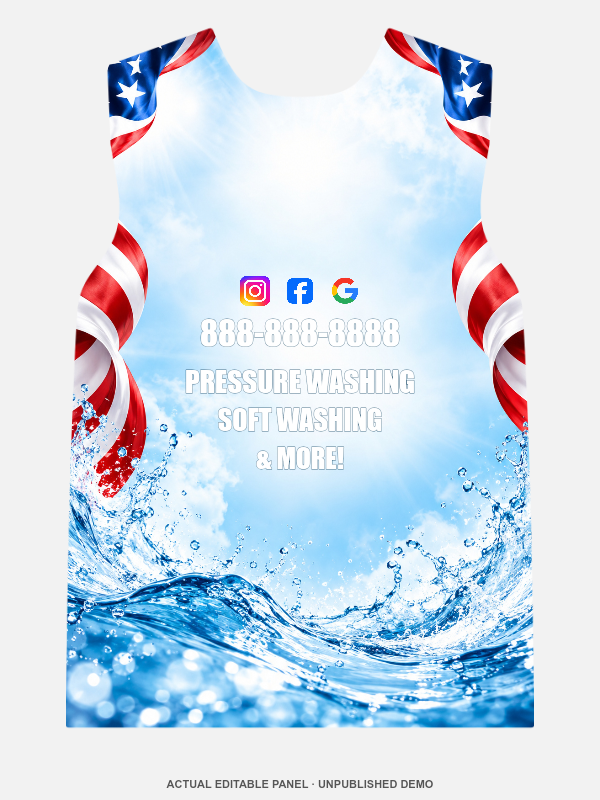
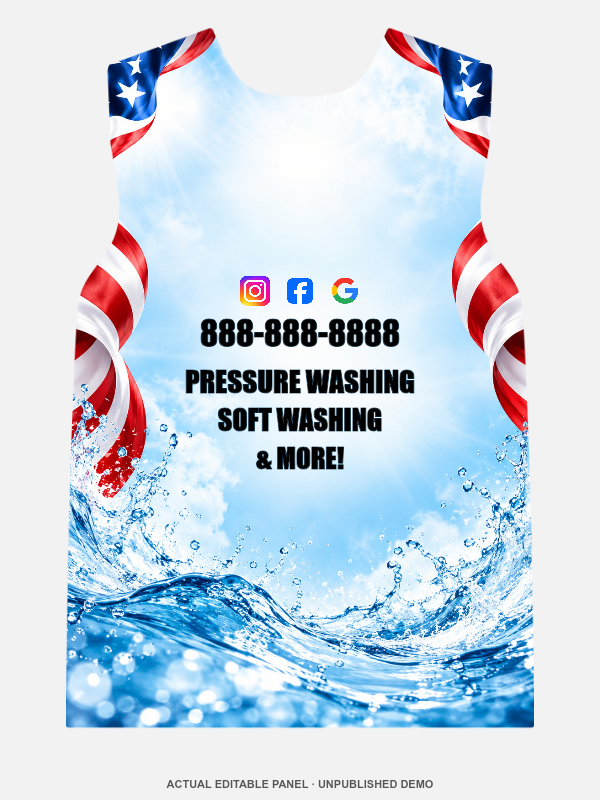
Apply approved black contact text and accept unmirrored patriotic layouts

Changed region(s): [[0.3, 0.375, 0.69, 0.5938]]

diff --git a/v20/template-demo.js b/v20/template-demo.js
@@ -1963,7 +1963,7 @@ export const demoVersions=[
       "Pressure Washing"
     ],
     "range": "Premium · All-over print",
-    "draftStatus": "Approved background; finished shirt remains a draft. Contact-text contrast needs review on this light background.",
+    "draftStatus": "Approved background with black contact text; unpublished draft.",
     "backgroundSource": "01-pressure-washing-ice-blue.jpg",
     "payload": {
       "schema": "mqd-design-v1",
@@ -2124,7 +2124,7 @@ export const demoVersions=[
                 "scale": 0.72,
                 "rotation": 0,
                 "visible": true,
-                "color": "#FFFFFF",
+                "color": "#000000",
                 "font": "Impact",
                 "strokeColor": "#083a59",
                 "strokeWidth": 2,
@@ -2142,7 +2142,7 @@ export const demoVersions=[
                 "scale": 0.62,
                 "rotation": 0,
                 "visible": true,
-                "color": "#FFFFFF",
+                "color": "#000000",
                 "font": "Impact",
                 "strokeColor": "#083a59",
                 "strokeWidth": 2,
@@ -2160,7 +2160,7 @@ export const demoVersions=[
                 "scale": 0.6,
                 "rotation": 0,
                 "visible": true,
-                "color": "#FFFFFF",
+                "color": "#000000",
                 "font": "Impact",
                 "strokeColor": "#083a59",
                 "strokeWidth": 2,
@@ -2178,7 +2178,7 @@ export const demoVersions=[
                 "scale": 0.58,
                 "rotation": 0,
                 "visible": true,
-                "color": "#FFFFFF",
+                "color": "#000000",
                 "font": "Impact",
                 "strokeColor": "#083a59",
                 "strokeWidth": 2,
@@ -2745,7 +2745,7 @@ export const demoVersions=[
       "Pressure Washing"
     ],
     "range": "Premium · All-over print",
-    "draftStatus": "Flag artwork kept unmirrored; seam/print approval pending. Unpublished draft. Contact-text contrast needs review on this light background.",
+    "draftStatus": "Patriotic layout approved without mirroring or seam matching; unpublished draft.",
     "backgroundSource": "04-pressure-washing-american-classic.jpg",
     "payload": {
       "schema": "mqd-design-v1",
@@ -2906,7 +2906,7 @@ export const demoVersions=[
                 "scale": 0.72,
                 "rotation": 0,
                 "visible": true,
-                "color": "#FFFFFF",
+                "color": "#000000",
                 "font": "Impact",
                 "strokeColor": "#083a59",
                 "strokeWidth": 2,
@@ -2924,7 +2924,7 @@ export const demoVersions=[
                 "scale": 0.62,
                 "rotation": 0,
                 "visible": true,
-                "color": "#FFFFFF",
+                "color": "#000000",
                 "font": "Impact",
                 "strokeColor": "#083a59",
                 "strokeWidth": 2,
@@ -2942,7 +2942,7 @@ export const demoVersions=[
                 "scale": 0.6,
                 "rotation": 0,
                 "visible": true,
-                "color": "#FFFFFF",
+                "color": "#000000",
                 "font": "Impact",
                 "strokeColor": "#083a59",
                 "strokeWidth": 2,
@@ -2960,7 +2960,7 @@ export const demoVersions=[
                 "scale": 0.58,
                 "rotation": 0,
                 "visible": true,
-                "color": "#FFFFFF",
+                "color": "#000000",
                 "font": "Impact",
                 "strokeColor": "#083a59",
                 "strokeWidth": 2,
@@ -3136,7 +3136,7 @@ export const demoVersions=[
       "Pressure Washing"
     ],
     "range": "Premium · All-over print",
-    "draftStatus": "Flag artwork kept unmirrored; seam/print approval pending. Unpublished draft.",
+    "draftStatus": "Patriotic layout approved without mirroring or seam matching; unpublished draft.",
     "backgroundSource": "05-pressure-washing-american-dark.jpg",
     "payload": {
       "schema": "mqd-design-v1",
@@ -3527,7 +3527,7 @@ export const demoVersions=[
       "Pressure Washing"
     ],
     "range": "Premium · All-over print",
-    "draftStatus": "Flag artwork kept unmirrored; seam/print approval pending. Unpublished draft. Contact-text contrast needs review on this light background.",
+    "draftStatus": "Patriotic layout approved without mirroring or seam matching; unpublished draft.",
     "backgroundSource": "06-pressure-washing-american-bright.jpg",
     "payload": {
       "schema": "mqd-design-v1",
@@ -3688,7 +3688,7 @@ export const demoVersions=[
                 "scale": 0.72,
                 "rotation": 0,
                 "visible": true,
-                "color": "#FFFFFF",
+                "color": "#000000",
                 "font": "Impact",
                 "strokeColor": "#083a59",
                 "strokeWidth": 2,
@@ -3706,7 +3706,7 @@ export const demoVersions=[
                 "scale": 0.62,
                 "rotation": 0,
                 "visible": true,
-                "color": "#FFFFFF",
+                "color": "#000000",
                 "font": "Impact",
                 "strokeColor": "#083a59",
                 "strokeWidth": 2,
@@ -3724,7 +3724,7 @@ export const demoVersions=[
                 "scale": 0.6,
                 "rotation": 0,
                 "visible": true,
-                "color": "#FFFFFF",
+                "color": "#000000",
                 "font": "Impact",
                 "strokeColor": "#083a59",
                 "strokeWidth": 2,
@@ -3742,7 +3742,7 @@ export const demoVersions=[
                 "scale": 0.58,
                 "rotation": 0,
                 "visible": true,
-                "color": "#FFFFFF",
+                "color": "#000000",
                 "font": "Impact",
                 "strokeColor": "#083a59",
                 "strokeWidth": 2,
@@ -5482,7 +5482,7 @@ export const demoVersions=[
       "General Business"
     ],
     "range": "Premium · All-over print",
-    "draftStatus": "Approved background; finished shirt remains a draft. Contact-text contrast needs review on this light background.",
+    "draftStatus": "Approved background with black contact text; unpublished draft.",
     "backgroundSource": "15-abstract-soft-gradient.jpg",
     "payload": {
       "schema": "mqd-design-v1",
@@ -5643,7 +5643,7 @@ export const demoVersions=[
                 "scale": 0.72,
                 "rotation": 0,
                 "visible": true,
-                "color": "#FFFFFF",
+                "color": "#000000",
                 "font": "Impact",
                 "strokeColor": "#282335",
                 "strokeWidth": 2,
@@ -5661,7 +5661,7 @@ export const demoVersions=[
                 "scale": 0.62,
                 "rotation": 0,
                 "visible": true,
-                "color": "#FFFFFF",
+                "color": "#000000",
                 "font": "Impact",
                 "strokeColor": "#282335",
                 "strokeWidth": 2,
@@ -5679,7 +5679,7 @@ export const demoVersions=[
                 "scale": 0.6,
                 "rotation": 0,
                 "visible": true,
-                "color": "#FFFFFF",
+                "color": "#000000",
                 "font": "Impact",
                 "strokeColor": "#282335",
                 "strokeWidth": 2,
@@ -5697,7 +5697,7 @@ export const demoVersions=[
                 "scale": 0.58,
                 "rotation": 0,
                 "visible": true,
-                "color": "#FFFFFF",
+                "color": "#000000",
                 "font": "Impact",
                 "strokeColor": "#282335",
                 "strokeWidth": 2,
